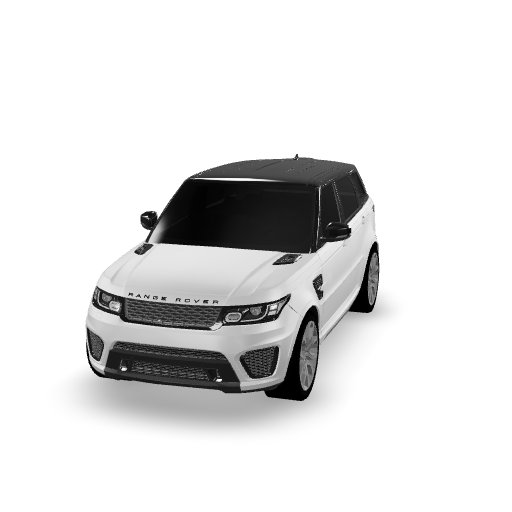
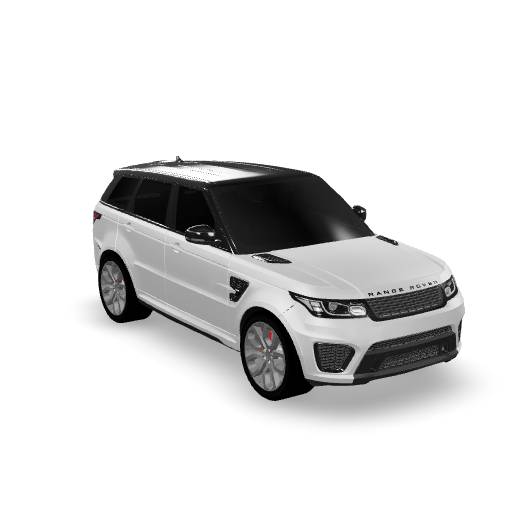
.

Changed region(s): [[0.1562, 0.2935, 0.9375, 0.8513]]

diff --git a/new/index.html b/new/index.html
@@ -27,10 +27,9 @@
     environment-image="neutral"
     poster="poster.png" 
     shadow-intensity="1" 
-    camera-orbit="-342deg 77.2deg auto"
+    camera-orbit="-35.09deg 77.42deg auto"
     auto-rotate
     >
-    <!-- camera orbit difference with model editor = 29 deg  -->
 
 
     <button class="Hotspot" slot="hotspot-5" data-position="-0.0722702681817406m 2.3448711613296886m 5.627854852245706m" data-normal="-0.023756154923452132m 0.808531113875572m 0.5879737094448865m" data-visibility-attribute="visible">

diff --git a/new/styles.css b/new/styles.css
@@ -54,7 +54,7 @@ model-viewer#reveal {
 }
 
 .HotspotAnnotation{
-  background: #fff;
+  background: #ffffffca;
   border-radius: 4px;
   box-shadow: 0 2px 4px rgba(0, 0, 0, 0.25);
   color: rgba(0, 0, 0, 0.8);
